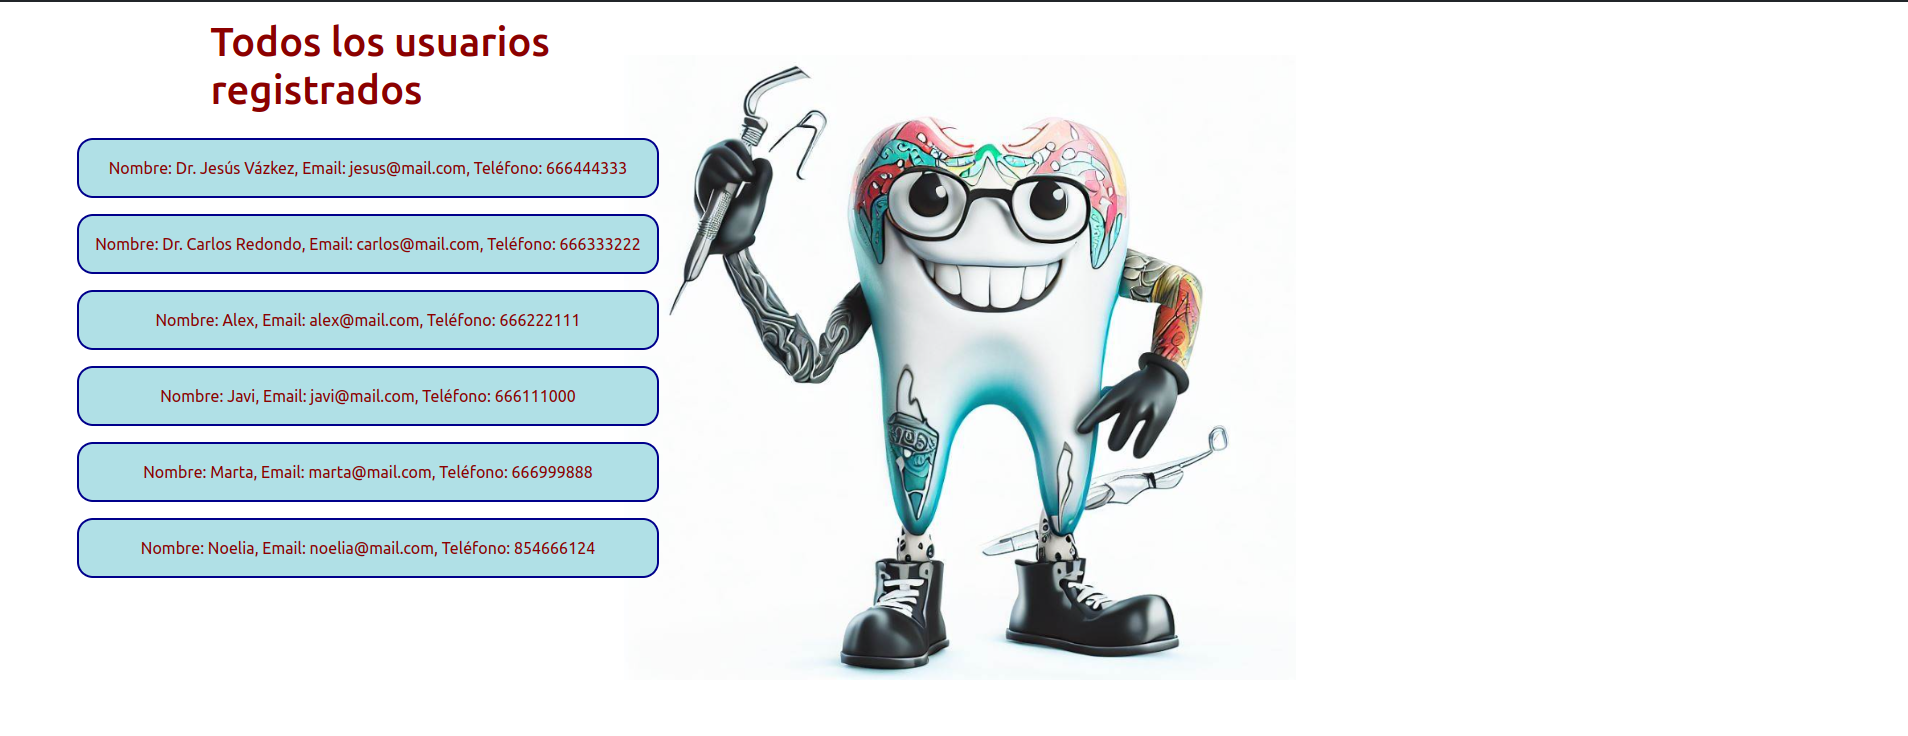
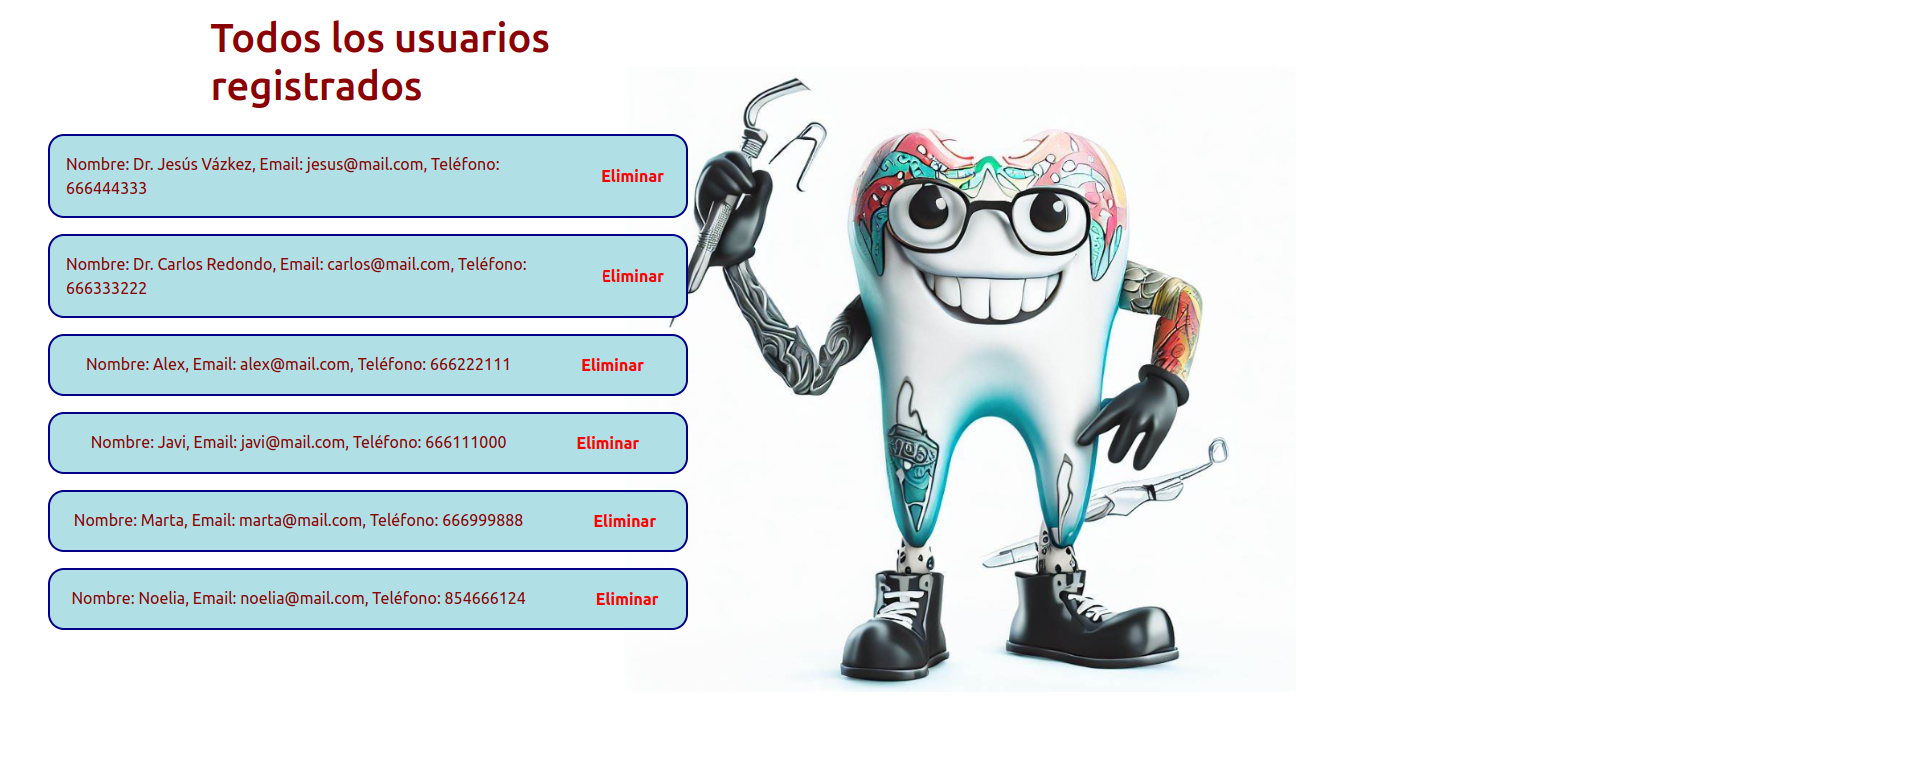
[update]Updated the README with the updated images with the recently added functions. // Actualizado el README con las imagenes actualizadas con las funciones agregadas recientemente.

Changed region(s): [[0.0, 0.0, 0.5875, 0.8438], [0.4329, 0.3438, 0.6494, 0.9375], [0.4948, 0.4062, 0.5566, 0.4375]]

diff --git a/README.md b/README.md
@@ -11,7 +11,7 @@ GeeksHubs Academy, Proyecto 5 :
 - [Desarrollo 🔧](#desarrollo)
 - [Credenciales 🔐](#credenciales)
 - [Repositorio 💾](#repositorio)
-- [Instalación 💽] (#instalacion)
+- [Instalación en Local 💽](#instalacion)
 - [Agradecimientos 👏](#agradecimientos)
 
 
@@ -19,7 +19,7 @@ GeeksHubs Academy, Proyecto 5 :
  
 El objetivo de este proyecto es crear el frontend de una clinica dental funciona y conectar con un backend y una base de datos creados en el proyecto anterior (Proyecto 4).
 
-Para alcanzar el objetivo se han incluido las vistas para cumplir con la funcionalidades básicas de una página web con las siguientes carácteristicas: login, registro,visualización de datos del usuario, modificación de datos del usuario, creación de citas, visualización de todas las citas y búsqueda de citas por fecha y modificación de citas
+Para alcanzar el objetivo se han incluido las vistas para cumplir con la funcionalidades básicas de una página web con las siguientes carácteristicas: login, registro,visualización de datos del usuario, modificación de datos del usuario y eliminación del usuario, creación de citas, visualización de todas las citas y búsqueda de citas por fecha, modificación y eliminación de citas.
 
 ### Vistas 🖥
 
@@ -33,7 +33,7 @@ Para alcanzar el objetivo se han incluido las vistas para cumplir con la funcion
 ![pedirCita](./img/pedirCita.png)
 
 ####Citas del usuario:
-![citasUsuario](./img/citasComoUsuario.png)
+![citasUsuario](./img/misCitas.png)
 
 ####Todas las citas (como doctor):
 ![citasDoctor](./img/citasDoctor.png)
